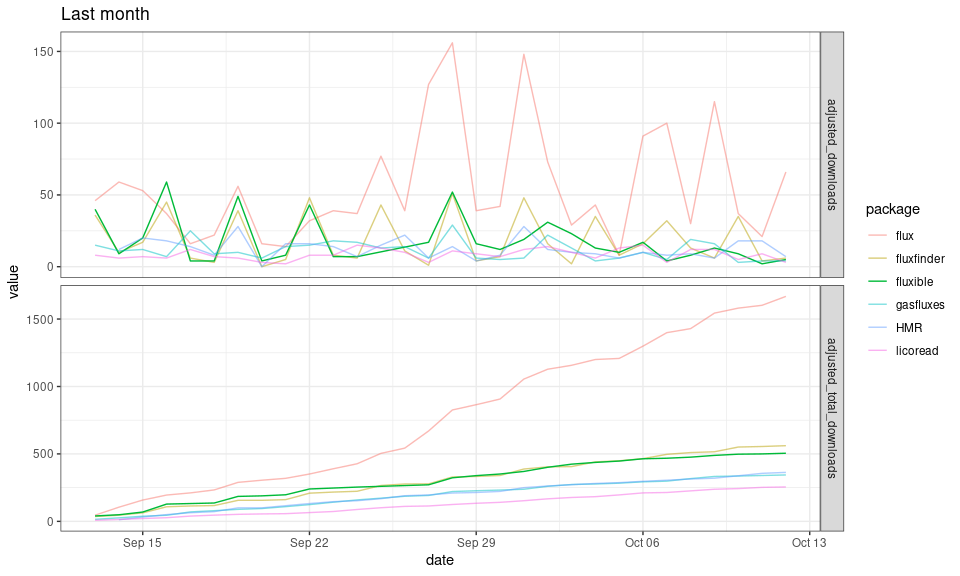
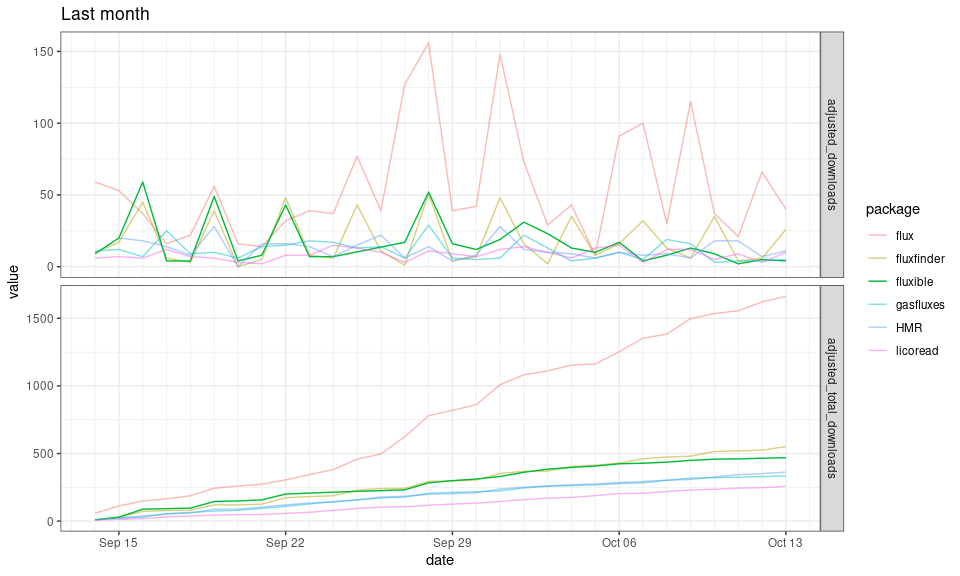
improved scales

diff --git a/download_logs.md b/download_logs.md
@@ -1,6 +1,6 @@
 # fluxible download logs
 Joseph Gaudard
-2025-10-14
+2025-10-15
 
 <div id="fig-lastmonth">
 
